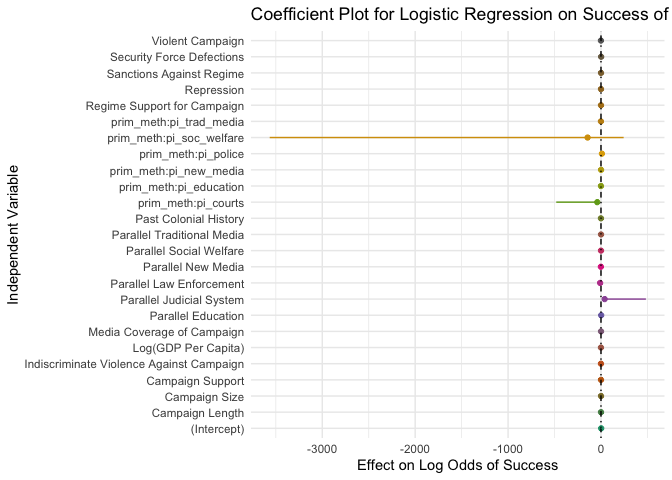
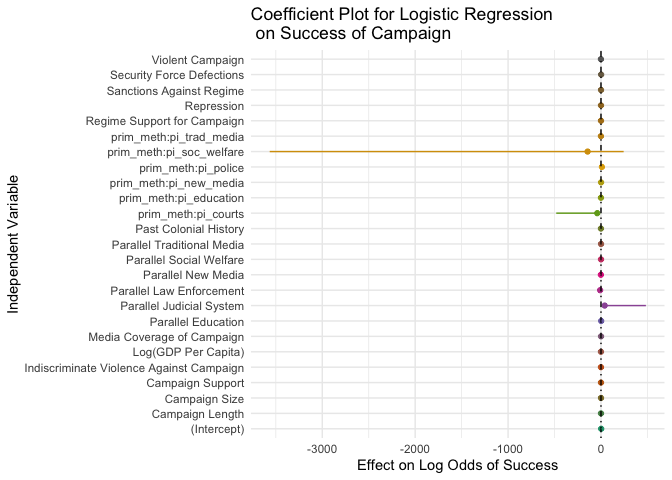
Longevity Models

Changed region(s): [[0.0312, 0.0625, 0.9688, 0.875], [0.8438, 0.0, 1.0, 0.1562], [0.0, 0.3438, 0.0312, 0.6562]]

diff --git a/README.md b/README.md
@@ -7,100 +7,7 @@ Parallel Institutions and Civil Resistance
 
 ### Longevity Models
 
-$$
-\begin{table}[!htbp] \centering 
-  \caption{} 
-  \label{} 
-\begin{tabular}{@{\extracolsep{5pt}}lc} 
-\\[-1.8ex]\hline 
-\hline \\[-1.8ex] 
- & \multicolumn{1}{c}{\textit{Dependent variable:}} \\ 
-\cline{2-2} 
-\\[-1.8ex] & length\_camp \\ 
-\hline \\[-1.8ex] 
- Log(GDP Per Capita) & $-$0.331 \\ 
-  & (0.646) \\ 
-  & \\ 
- Past or Present Colony & 1.250 \\ 
-  & (1.257) \\ 
-  & \\ 
- Violent of Campaign & 3.314$^{*}$ \\ 
-  & (1.702) \\ 
-  & \\ 
- Security Force Defections & $-$2.457$^{*}$ \\ 
-  & (1.389) \\ 
-  & \\ 
- Repression of Campaign & 0.742 \\ 
-  & (0.898) \\ 
-  & \\ 
- Media Coverage & $-$2.248$^{**}$ \\ 
-  & (0.878) \\ 
-  & \\ 
- Indiscriminate Violence by Regime & $-$2.553$^{*}$ \\ 
-  & (1.303) \\ 
-  & \\ 
- Campaign Support & $-$1.059 \\ 
-  & (1.312) \\ 
-  & \\ 
- Campaign Size & $-$0.088 \\ 
-  & (0.614) \\ 
-  & \\ 
- Regime Support of Campaign & $-$3.194$^{***}$ \\ 
-  & (1.182) \\ 
-  & \\ 
- International Sanctions of Regime & 0.707 \\ 
-  & (1.726) \\ 
-  & \\ 
- Educational Systems & 3.557 \\ 
-  & (6.347) \\ 
-  & \\ 
- Law Enforcement & 1.306 \\ 
-  & (9.172) \\ 
-  & \\ 
- Social Welfare & $-$0.635 \\ 
-  & (2.138) \\ 
-  & \\ 
- Traditional Media & 1.773 \\ 
-  & (2.219) \\ 
-  & \\ 
- New Media & $-$0.235 \\ 
-  & (4.937) \\ 
-  & \\ 
- Judicial System & 2.948 \\ 
-  & (3.989) \\ 
-  & \\ 
- Violence * Education & $-$10.701 \\ 
-  & (7.537) \\ 
-  & \\ 
- Violence * Social Welfare & 9.919$^{*}$ \\ 
-  & (5.565) \\ 
-  & \\ 
- Violence * Traditional Media & 2.591 \\ 
-  & (3.020) \\ 
-  & \\ 
- Violence * New Media & 9.008 \\ 
-  & (5.781) \\ 
-  & \\ 
- Violence * Courts & $-$0.191 \\ 
-  & (4.542) \\ 
-  & \\ 
- Violence * Police & $-$4.690 \\ 
-  & (9.955) \\ 
-  & \\ 
- Constant & 8.572 \\ 
-  & (6.111) \\ 
-  & \\ 
-\hline \\[-1.8ex] 
-Observations & 178 \\ 
-R$^{2}$ & 0.363 \\ 
-Adjusted R$^{2}$ & 0.268 \\ 
-F Statistic & 88.379$^{***}$ \\ 
-\hline 
-\hline \\[-1.8ex] 
-\textit{Note:}  & \multicolumn{1}{r}{$^{*}$p$<$0.1; $^{**}$p$<$0.05; $^{***}$p$<$0.01} \\ 
-\end{tabular} 
-\end{table} 
-$$
+![](README_files/figure-gfm/unnamed-chunk-3-1.png)<!-- -->
 
 ### Binomial Logistic Regression
 
